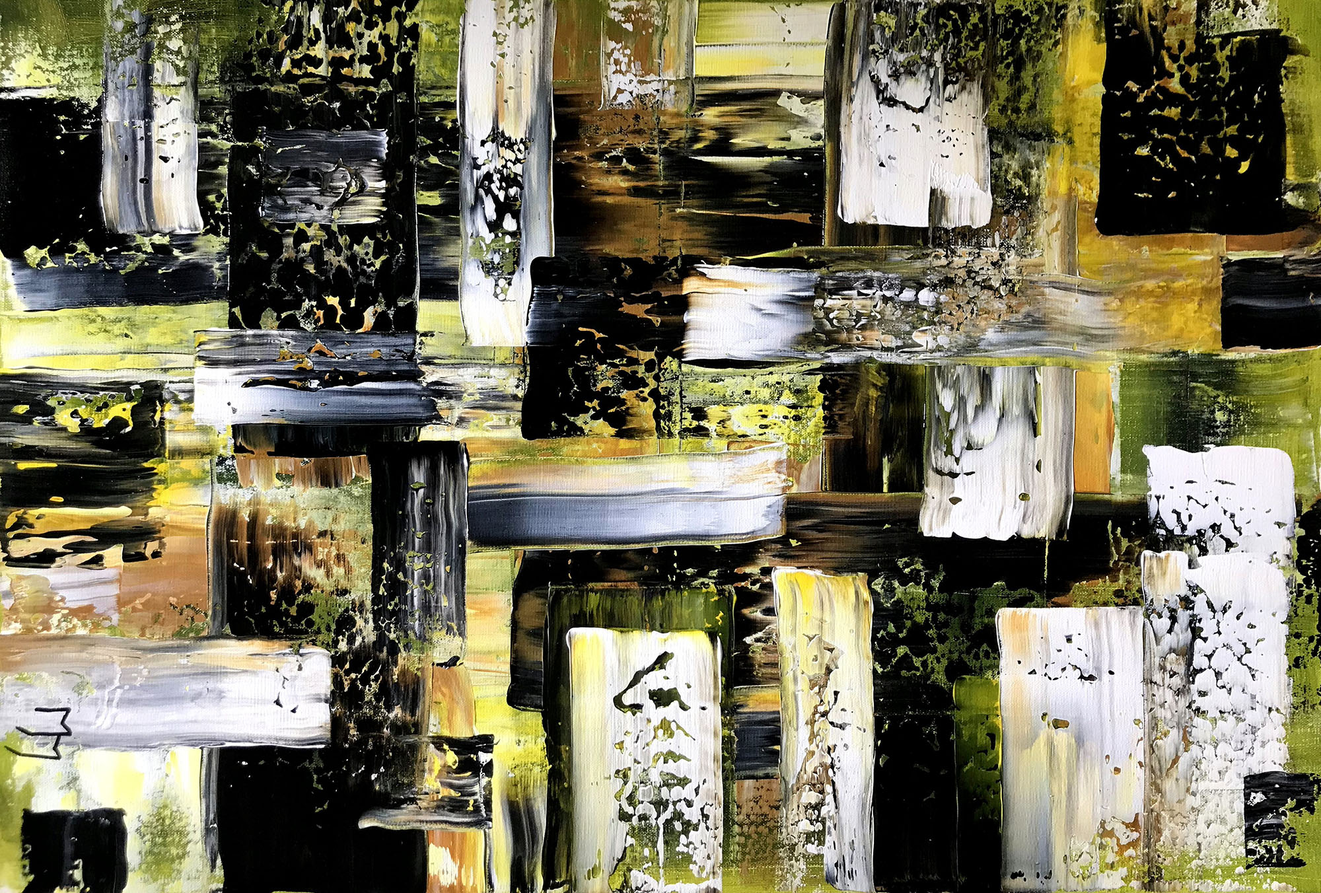
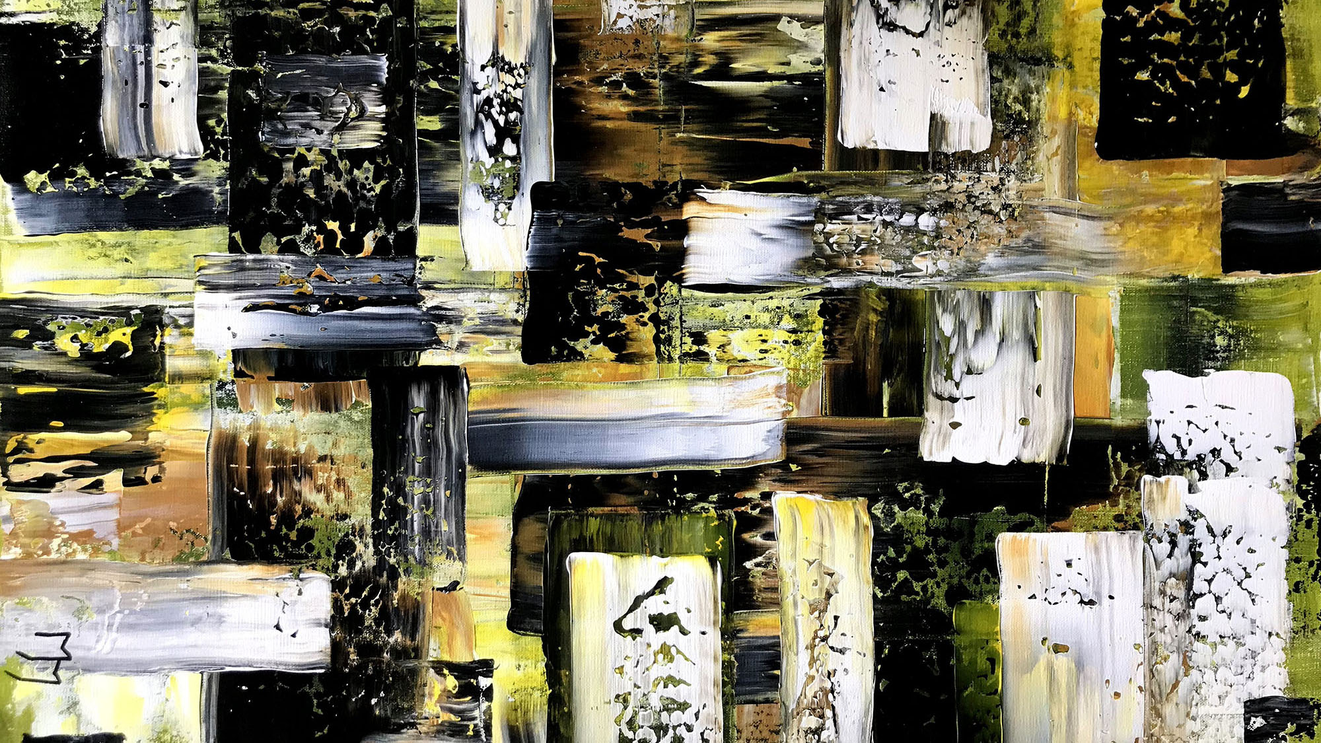
better lazyloading, resized bg images

diff --git a/_includes/assets/css/styles.css b/_includes/assets/css/styles.css
@@ -165,6 +165,7 @@ footer{
 	background-position: center;
 	background-repeat: no-repeat;
 	background-size: cover;
+	background-color: rgba(0 , 0 , 0 , 0.0);
 
 	padding: 20px;
 
